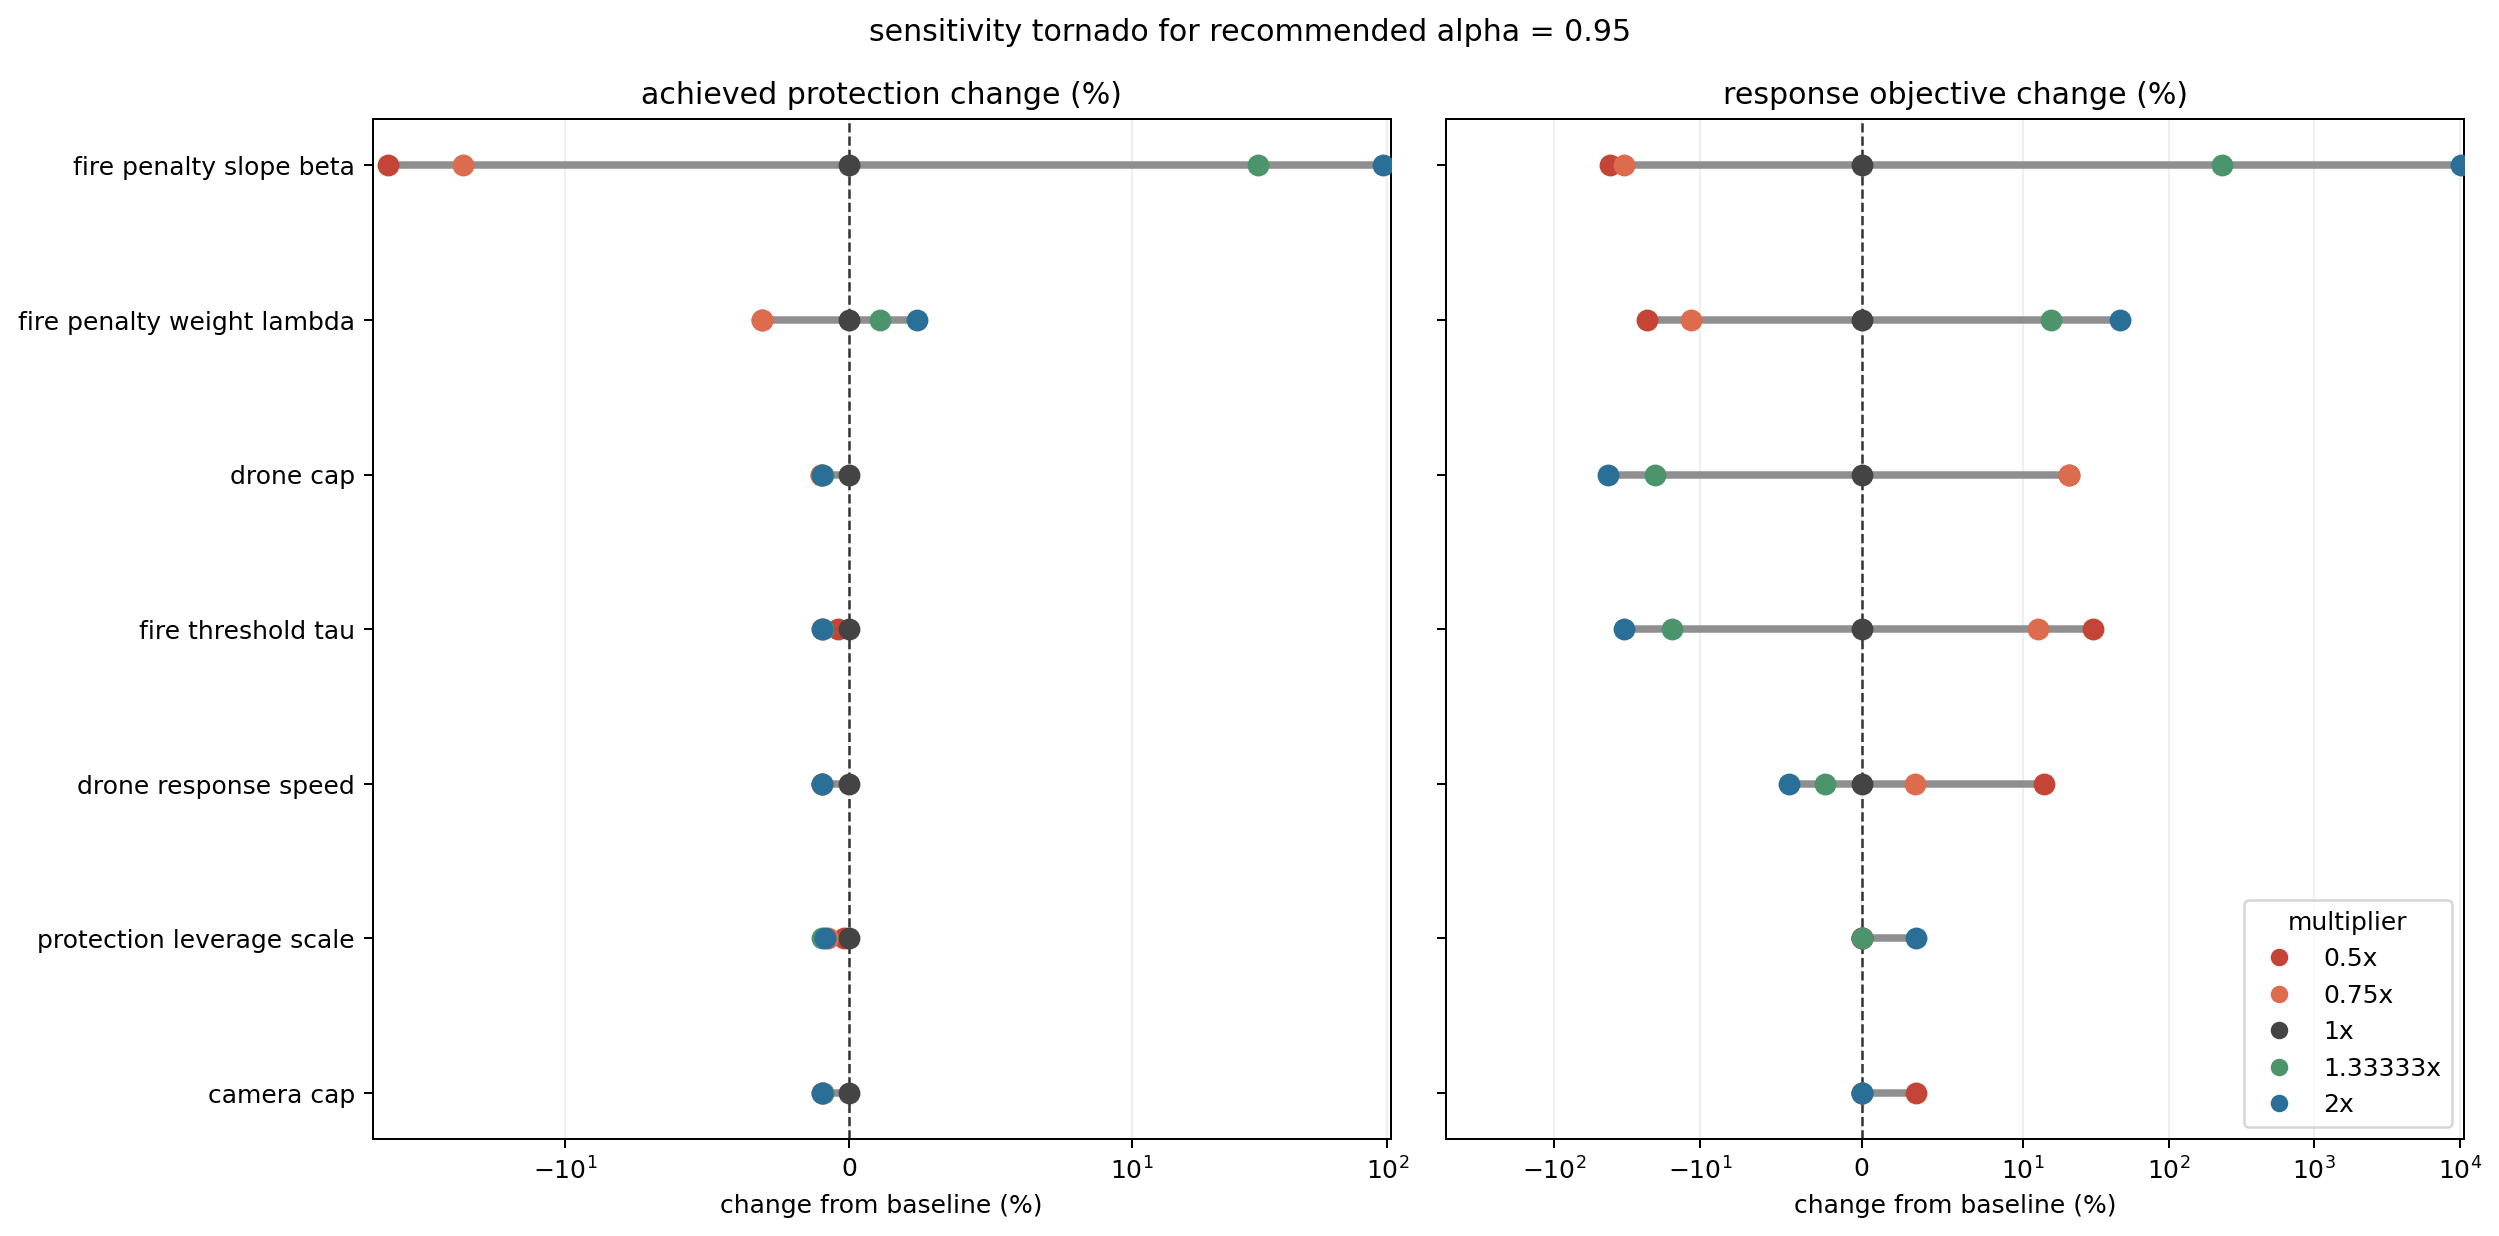
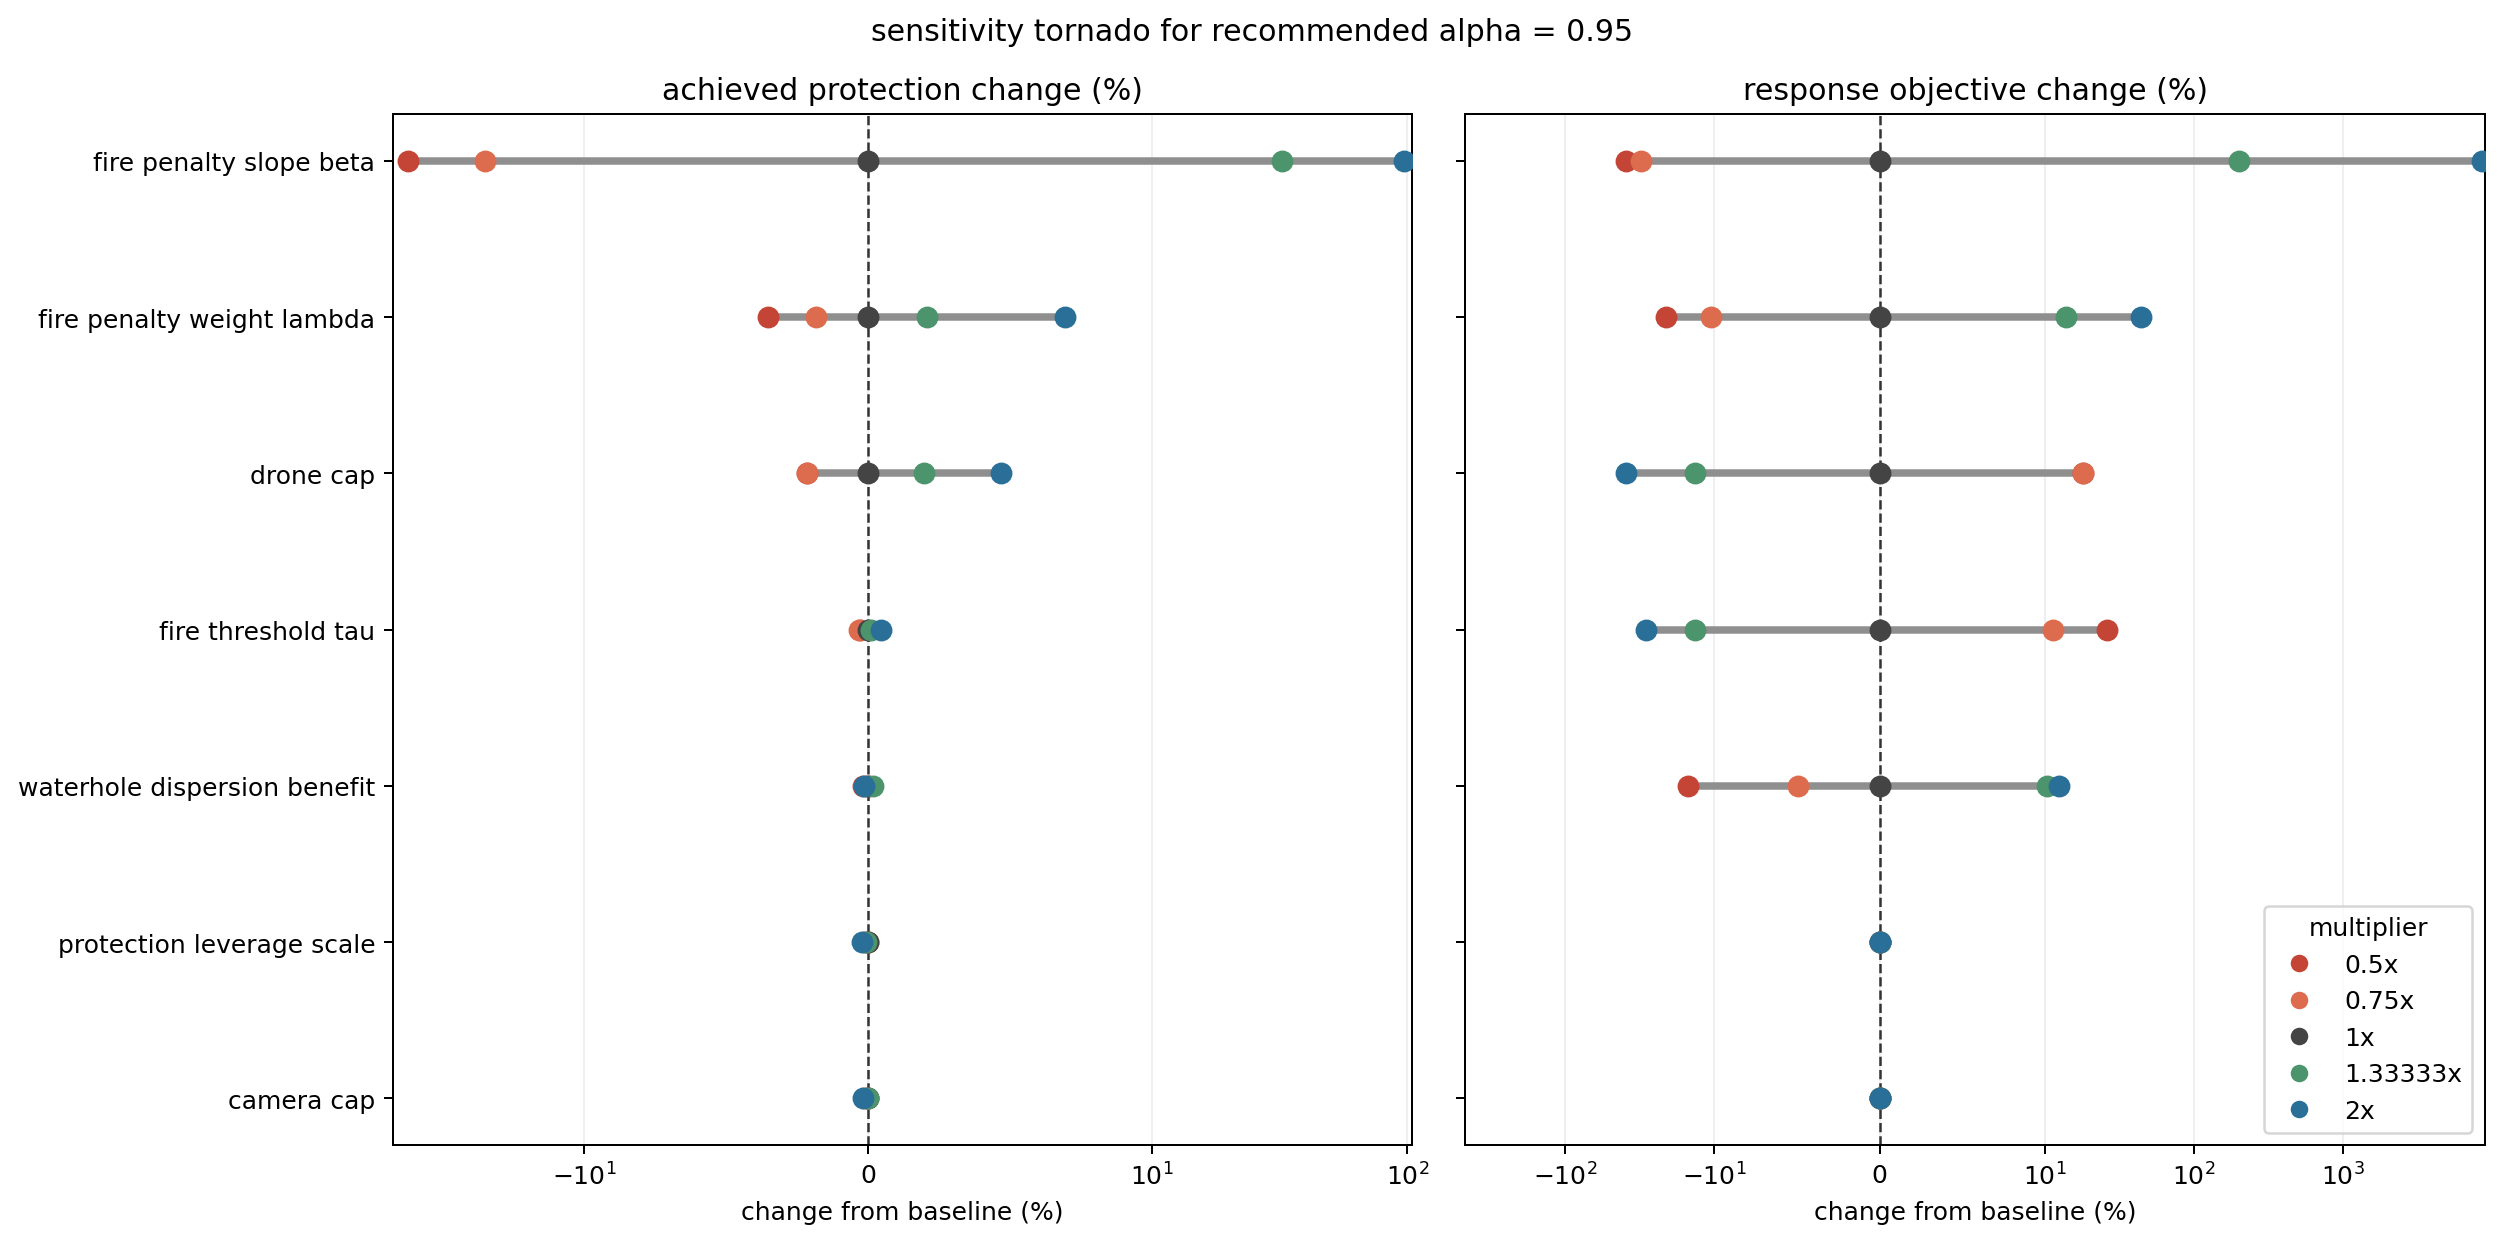
updated sensitivity results and added optimization scale for response time

diff --git a/scripts/visualize_optimization_components.py b/scripts/visualize_optimization_components.py
@@ -489,6 +489,16 @@ def render_spatial_solution(context: dict[str, object]) -> None:
     boundary.boundary.plot(ax=axes[1, 0], color="black", linewidth=1.0)
     axes[1, 0].set_title("cell response times after responder assignment")
     axes[1, 0].set_axis_off()
+    sm = plt.cm.ScalarMappable(
+        cmap="YlGnBu",
+        norm=plt.Normalize(
+            vmin=cells["response_time_min"].min(),
+            vmax=cells["response_time_min"].max(),
+        ),
+    )
+    sm._A = []
+    cbar = fig.colorbar(sm, ax=axes[1, 0], fraction=0.03, pad=0.01, shrink=0.85)
+    cbar.set_label("response time (min)")
 
     responder_palette = {asset: RESPONDER_COLORS[asset] for asset in RESPONDER_COLORS}
     responder_colors = cells["selected_responder_asset"].map(responder_palette).fillna("#d4d4d8")
